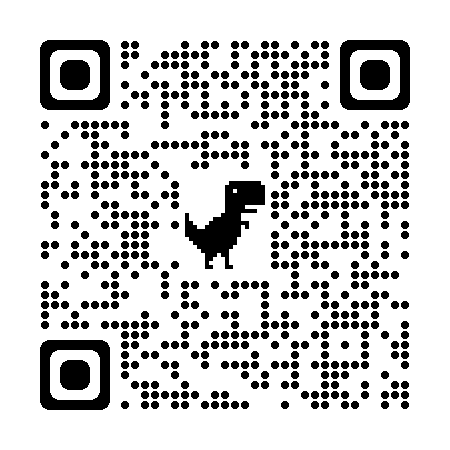
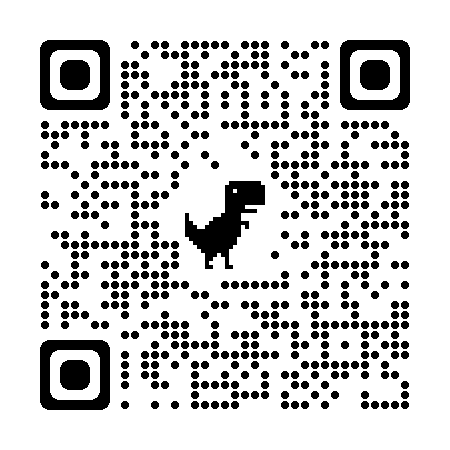
Atualização do site - Wireframe

diff --git a/index.html b/index.html
@@ -98,15 +98,22 @@
     </section>
     <!-- Wireframe -->
     <section id="wireframe">
-      <div class="container">
-      <div id="textoWire">
-        <h2>Wireframe</h2>
-        <p>WireFrame é uma representação visual da estrutura básica de uma página. Ele deve ser feito da maneira mais simples possível, mostrando apensa o essencial, como uma espécie de rascunho, sem cores ou imagens. Clique no botão <span>ou escaneie o QR Code </span>para obter o wireframe desta página.</p>
-        <a href="wireframe.pdf" target="_blank">PDF</a>
-      </div>
-      <div id="qrcode">
-
-      </div>
+      <div class="container Flex2">
+        <div id="textoWire">
+          <h2>Wireframe</h2>
+          <p>
+            WireFrame é uma representação visual da estrutura básica de uma
+            página. Ele deve ser feito da maneira mais simples possível,
+            mostrando apensa o essencial, como uma espécie de rascunho, sem
+            cores ou imagens. Clique no botão
+            <span>ou escaneie o QR Code </span>para obter o wireframe desta
+            página.
+          </p>
+          <a href="wireframe.pdf" target="_blank" class="Botao">PDF</a>
+        </div>
+        <div id="qrcode">
+          <img src="img/qrcode.png" alt="qrcode" />
+        </div>
       </div>
     </section>
     <!-- Conteúdo -->

diff --git a/style.css b/style.css
@@ -174,6 +174,35 @@ main h2 {
     border: 0;
 }
 
+/* Wireframe */
+#wireframe {
+    padding: 50px 0px;
+    background: url(img/background.png);
+    background-size: cover;
+    background-position: center;
+}
+
+#textoWire {
+    color: #fff;
+    padding: 0px 10px;
+}
+
+#textoWire h2 {
+    margin-bottom: 10px;
+}
+
+#textoWire p {
+    margin-bottom: 40px;
+}
+
+#textoWire span {
+    display: none;
+}
+
+#qrcode {
+    display: none;
+}
+
 /* SMARTPHONE LANDSCAP (horizontal) >>>>>>>>>>>>>>>>>>>>>>>>>>>> */
 @media (min-width:576px){
     
@@ -291,6 +320,24 @@ main h2 {
     .Flex3 {
         flex-direction: row;
         align-items: center;
+    }
+
+    /* Wireframe */
+    #wireframe {
+        background-attachment: fixed;
+    }
+
+    #textoWire span {
+        display: inline;
+    }
+    
+    #qrcode {
+        display: inline;
+    }
+
+    #qrcode img {
+        width: 225px;
+        height: 225px;
     }
 
 }
